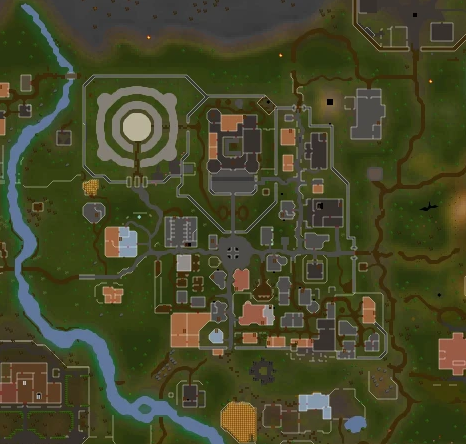
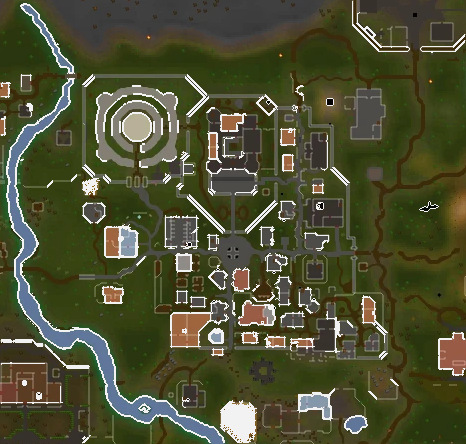
Paint white wall ink on elite structure maps so the minimap can lock.
The matcher already accepts only pale wall pixels. These dungeon maps had almost none, so a live position never stuck. The card art and the search itself are unchanged.

diff --git a/source/FollowRegressionTests.cs b/source/FollowRegressionTests.cs
@@ -89,6 +89,7 @@ namespace KavrosClueHelper
                     }
                     reader.Reset();MinimapMatch wrong=reader.Find(original,regions.Single(r=>r.Id==371),Point.Empty,CancellationToken.None);File.AppendAllText(report,"Wrong region: "+reader.Diagnostics+"\r\n");Check(wrong==null,"Prifddinas pixels cannot become a Heart of Gielinor position");
                 }
+                EliteWalls(assets,report,regions);
                 var random=new Random(5517);
                 for(int trial=0;trial<70;trial++)
                 {
@@ -103,9 +104,73 @@ namespace KavrosClueHelper
                     var watch=Stopwatch.StartNew();KnotSolution result=KnotSolver.Solve(p);File.AppendAllText(report,"Five 40-rune lanes, hidden="+hidden+": "+watch.ElapsedMilliseconds+" ms.\r\n");
                     Check(hidden?result==null:result!=null&&result.Certain&&result.Cost==0,"large ambiguous knot retains solution/ambiguity rules");Check(watch.ElapsedMilliseconds<1000,"uncertain knot does not enumerate millions of solutions");
                 }
-                File.AppendAllText(report,"V0.5.5 FOLLOW / KNOT PASS: "+checks+" assertions. Actual Kavros minimap, Home Teleport anchor, fresh cropped confirmation, resized/moved actual pixels, wrong-region rejection, exhaustive knot oracle and worst-case search checks. No windows shown, desktop capture or game input.\r\n");return 0;
+                File.AppendAllText(report,"V0.5.5 FOLLOW / KNOT PASS: "+checks+" assertions. Actual Kavros minimap, Home Teleport anchor, fresh cropped confirmation, resized/moved actual pixels, wrong-region rejection, elite structure locks, exhaustive knot oracle and worst-case search checks. No windows shown, desktop capture or game input.\r\n");return 0;
             }
             catch(Exception e){File.AppendAllText(report,e+"\r\n");return 1;}
+        }
+        private static bool PaleInk(Color c){int low=Math.Min(c.R,Math.Min(c.G,c.B)),high=Math.Max(c.R,Math.Max(c.G,c.B));return low>=185&&high-low<40;}
+        private static void EliteWalls(string assets,string report,IList<ScanRegion> regions)
+        {
+            int[] ids={349,351,352,354,355,356,357,358,359,360,361,362,365,367};
+            string realFull=null;
+            foreach(string candidate in new[]{Path.Combine(assets,"test_assets","reported","brimhaven2-full.png"),"/workspace/brimhaven2-full.png","/workspace/brimhaven-minimap.png","/workspace/brimhaven2-minimap.png"})
+                if(realFull==null&&File.Exists(candidate)&&candidate.IndexOf("full",StringComparison.Ordinal)>=0)realFull=candidate;
+            ScanRegion brimhaven=regions.Single(r=>r.Id==356);
+            if(realFull==null)File.AppendAllText(report,"Brimhaven real frames were not on this machine. Floor 0 is locked from a synthetic cut of the regenerated structure.\r\n");
+            else
+            {
+                var reader=new MinimapPositionReader(assets);
+                using(var frame=new Bitmap(realFull))
+                {
+                    var watch=Stopwatch.StartNew();MinimapMatch live=reader.Find(frame,brimhaven,Point.Empty,CancellationToken.None);
+                    File.AppendAllText(report,"Brimhaven real frame "+realFull+": "+watch.ElapsedMilliseconds+" ms; "+reader.Diagnostics+"\r\n");
+                    Check(live!=null&&live.Error<=3,"Brimhaven floor 0 locks from the real frame with error <= 3");
+                    Check(Math.Abs(live.PlayerPixel.X-2343)<=40&&Math.Abs(live.PlayerPixel.Y-213)<=40,"the real Brimhaven frame uses the player dot");
+                    Check(brimhaven.MapBounds.Contains(live.Position),"the real Brimhaven lock is on the dungeon map");
+                }
+            }
+            var structure=new MinimapStructure();
+            foreach(int id in ids)
+            {
+                ScanRegion source=regions.Single(r=>r.Id==id);
+                foreach(int level in source.Levels)
+                {
+                    var region=new ScanRegion{Id=source.Id,Level=level,Tier=source.Tier,Name=source.Name,MapBounds=source.MapBounds,BaseRange=source.BaseRange,Spots=source.Spots,SpotLevels=source.SpotLevels};
+                    string path=Path.Combine(assets,"scan",region.AssetKey+"-structure.png");
+                    Check(File.Exists(path),region.AssetKey+" structure map exists");
+                    int pale=0,filled=0,bestCount=-1;Point best=Point.Empty;int width,height;double sx,sy,worldX,worldY;
+                    using(var image=new Bitmap(path))
+                    {
+                        width=image.Width;height=image.Height;var pixels=new Pixels(image);var mask=new bool[width*height];
+                        for(int y=0;y<height;y++)for(int x=0;x<width;x++)if(PaleInk(pixels.Get(x,y))){mask[y*width+x]=true;pale++;}
+                        for(int y=1;y<height-1;y++)for(int x=1;x<width-1;x++){int i=y*width+x;if(mask[i]&&mask[i-1]&&mask[i+1]&&mask[i-width]&&mask[i+width])filled++;}
+                        int rad=Math.Min(70,Math.Min(width,height)/2-2);
+                        for(int y=rad;y<height-rad;y+=12)for(int x=rad;x<width-rad;x+=12)
+                        {
+                            int count=0;
+                            for(int iy=-rad;iy<=rad;iy+=2)for(int ix=-rad;ix<=rad;ix+=2)if(ix*ix+iy*iy<rad*rad&&mask[(y+iy)*width+x+ix])count++;
+                            if(count>bestCount){bestCount=count;best=new Point(x,y);}
+                        }
+                        Check(pale*1000>width*height*4,region.AssetKey+" has pale wall ink ("+pale+" px)");
+                        Check(filled*2<pale,region.AssetKey+" pale ink stays on edges");
+                        sx=width/region.MapBounds.Width;sy=height/region.MapBounds.Height;
+                        worldX=region.MapBounds.Left+best.X/sx;worldY=region.MapBounds.Bottom-best.Y/sy;
+                        using(var mini=new Bitmap(260,260))
+                        {
+                            for(int iy=0;iy<260;iy++)for(int ix=0;ix<260;ix++)
+                            {
+                                double wx=worldX+(ix-130)/2.0,wy=worldY-(iy-130)/2.0;
+                                int rx=(int)Math.Round((wx-region.MapBounds.Left)*sx),ry=(int)Math.Round((region.MapBounds.Bottom-wy)*sy);
+                                if(rx>=0&&ry>=0&&rx<width&&ry<height)mini.SetPixel(ix,iy,pixels.Get(rx,ry));
+                            }
+                            var watch=Stopwatch.StartNew();string info;MinimapMatch match=structure.Find(mini,assets,region,new Point(130,130),new Rectangle(0,0,260,260),null,CancellationToken.None,out info);
+                            File.AppendAllText(report,region.AssetKey+" synthetic lock "+watch.ElapsedMilliseconds+" ms; "+info+"\r\n");
+                            bool locked=match!=null&&match.Error<=3&&CompassMath.Distance(match.Position,new PointF((float)worldX,(float)worldY))<4;
+                            Check(locked,region.AssetKey+" synthetic minimap locks at "+worldX.ToString("0")+", "+worldY.ToString("0")+" ("+info+")");
+                        }
+                    }
+                }
+            }
         }
     }
 }

diff --git a/source/MapIconRegressionTests.cs b/source/MapIconRegressionTests.cs
@@ -41,7 +41,7 @@ namespace KavrosClueHelper
                 Check(Math.Abs(PuzzleDetector.SearchOrder(1351, 192)[0] - 2.5F) < 0.02F, "1440p at 200% searches 2.5 first");
                 Check(Math.Abs(PuzzleDetector.SearchOrder(1369, 96, 1080, 100, 1440, 125)[0] - 1F) < 0.02F, "a manual 1080p choice overrides the window height");
                 Check(Math.Abs(PuzzleDetector.SearchOrder(0, 0, 0, 0, 1440, 125)[0] - 1.75F) < 0.02F, "auto with no window uses the last manual 1440p and 125%");
-                Check(AppBranding.Shown("0.8.0") == "v0.8" && AppBranding.Shown("v0.8.0") == "v0.8" && AppBranding.Shown(new Version(0, 8, 0, 0)) == "v0.8" && AppBranding.Shown("0.8.1") == "v0.8.1" && AppBranding.Shown("v0.8.1") == "v0.8.1" && AppBranding.Shown(new Version(0, 8, 1, 0)) == "v0.8.1" && AppBranding.Shown("0.9.0") == "v0.9" && AppBranding.Shown(new Version(0, 9, 0, 0)) == "v0.9" && AppBranding.Shown("0.9.1") == "v0.9.1" && AppBranding.Shown(new Version(0, 9, 1, 0)) == "v0.9.1" && AppBranding.Shown("0.9.2") == "v0.9.2" && AppBranding.Shown(new Version(0, 9, 2, 0)) == "v0.9.2" && AppBranding.Shown("0.9.3") == "v0.9.3" && AppBranding.Shown(new Version(0, 9, 3, 0)) == "v0.9.3" && AppBranding.Shown("0.9.4") == "v0.9.4" && AppBranding.Shown(new Version(0, 9, 4, 0)) == "v0.9.4", "a zero patch shows major.minor and any other patch shows three parts");
+                Check(AppBranding.Shown("0.8.0") == "v0.8" && AppBranding.Shown("v0.8.0") == "v0.8" && AppBranding.Shown(new Version(0, 8, 0, 0)) == "v0.8" && AppBranding.Shown("0.8.1") == "v0.8.1" && AppBranding.Shown("v0.8.1") == "v0.8.1" && AppBranding.Shown(new Version(0, 8, 1, 0)) == "v0.8.1" && AppBranding.Shown("0.9.0") == "v0.9" && AppBranding.Shown(new Version(0, 9, 0, 0)) == "v0.9" && AppBranding.Shown("0.9.1") == "v0.9.1" && AppBranding.Shown(new Version(0, 9, 1, 0)) == "v0.9.1" && AppBranding.Shown("0.9.2") == "v0.9.2" && AppBranding.Shown(new Version(0, 9, 2, 0)) == "v0.9.2" && AppBranding.Shown("0.9.3") == "v0.9.3" && AppBranding.Shown(new Version(0, 9, 3, 0)) == "v0.9.3" && AppBranding.Shown("0.9.4") == "v0.9.4" && AppBranding.Shown(new Version(0, 9, 4, 0)) == "v0.9.4" && AppBranding.Shown("0.9.5") == "v0.9.5" && AppBranding.Shown(new Version(0, 9, 5, 0)) == "v0.9.5", "a zero patch shows major.minor and any other patch shows three parts");
                 string prefsPath = Path.Combine(Path.GetTempPath(), "kavros-overlay-" + DateTime.UtcNow.Ticks.ToString() + ".txt");
                 try
                 {

diff --git a/source/SteadyTrackingTests.cs b/source/SteadyTrackingTests.cs
@@ -120,6 +120,9 @@ namespace KavrosClueHelper
                     check(!outside.Outside&&outside.PositionTracked&&CompassMath.Distance(outside.Position.Value,locked)<1,"coming into range on "+sample.Name+" keeps the same lock");
                     check(outside.FloorLine().IndexOf(ScanSession.OutsideNote,StringComparison.Ordinal)<0,"the too-far note goes away once "+sample.Name+" is in range");
                     check(sample.Levels.Length>=1&&sample.Level==0,"the scan floor is unchanged by tracking");
+                    check(outside.AutoTracking&&outside.FloorLine().IndexOf("Right-click your position on the map",StringComparison.Ordinal)<0,"the right-click line stays hidden while "+sample.Name+" follows the minimap");
+                    outside.SetAutomatic(false);
+                    check(!outside.AutoTracking&&outside.FloorLine().Contains("Right-click your position on the map"),"the right-click line appears only when "+sample.Name+" auto-follow is off");
                 }
                 File.WriteAllText(report,log.ToString()+"Steady tracking checks passed: "+count+Environment.NewLine);
                 return 0;

diff --git a/verification/SettingsChecks.cs b/verification/SettingsChecks.cs
@@ -29,7 +29,7 @@ public sealed class SettingsChecks : MarshalByRefObject
         {
             var footer=form.Controls.Find("BuildCredit",true).OfType<Label>().Single();
             var crest=form.Controls.Find("KavrosCrest",true).OfType<PictureBox>().Single();
-            if(footer.Text!="Made by Zenity  ·  v0.9.4"||form.Text!="Kavros Clue Helper · v0.9.4"||crest.Image==null||form.Icon==null)throw new Exception("Missing branding or incorrect version: "+footer.Text+" / "+form.Text);
+            if(footer.Text!="Made by Zenity  ·  v0.9.5"||form.Text!="Kavros Clue Helper · v0.9.5"||crest.Image==null||form.Icon==null)throw new Exception("Missing branding or incorrect version: "+footer.Text+" / "+form.Text);
             if(form.Controls.Find("ModernInterface",true).Length!=1||form.Controls.Find("LegacyInterface",true).Length!=1)throw new Exception("Interface toggles are missing.");
             const BindingFlags flags=BindingFlags.Instance|BindingFlags.NonPublic;
             var option=(CheckBox)typeof(PuzzleSuiteForm).GetField("reverse",flags).GetValue(form);

diff --git a/README.md b/README.md
@@ -1,14 +1,14 @@
 # kavros-clue-helper
 
-Clue scroll helper overlay for Kavros. Version 0.9.4 is a Windows .NET Framework 4.8 application. The full guide is in [README.txt](README.txt).
+Clue scroll helper overlay for Kavros. Version 0.9.5 is a Windows .NET Framework 4.8 application. The full guide is in [README.txt](README.txt).
 
-v0.9.4: a scan that says you are too far away still tracks the minimap. See [CHANGELOG.md](CHANGELOG.md).
+v0.9.5: elite dungeon scans lock your position on the minimap. See [CHANGELOG.md](CHANGELOG.md).
 
 The helper reads the game window locally and does not send game input. Maps and clue references are bundled offline. The only runtime network request is to GitHub, for update checks and update downloads, and only when **Check for updates at startup** is enabled or you press **Check for updates** in Settings.
 
 ## Releases
 
-Push a tag that matches the first three parts of the version in `source/app.manifest`. The current release tag is `v0.9.4`. The app shows v0.9.4. A zero patch still shows as v0.9. The Windows workflow builds with `source/build.ps1`, packs the executable and the `assets` folder with Velopack, and publishes these files to GitHub Releases:
+Push a tag that matches the first three parts of the version in `source/app.manifest`. The current release tag is `v0.9.5`. The app shows v0.9.5. A zero patch still shows as v0.9. The Windows workflow builds with `source/build.ps1`, packs the executable and the `assets` folder with Velopack, and publishes these files to GitHub Releases:
 
 - `KavrosClueHelper-win-Setup.exe`
 - `KavrosClueHelper-win-Portable.zip`

diff --git a/PATCH-NOTES.md b/PATCH-NOTES.md
@@ -1,3 +1,9 @@
+# Kavros Clue Helper v0.9.5
+
+Elite dungeon scans lock your position on the minimap. The wall lines on those maps are white, the same way Prifddinas already was. The pictures on the clue card are unchanged. The right-click line stays hidden while auto-follow is on.
+
+Settings shows **Made by Zenity  ·  v0.9.5**. The full notes are in CHANGELOG.md.
+
 # Kavros Clue Helper v0.9.4
 
 A scan that says you are too far away still tracks your minimap. The card keeps the steps, the too-far note, and the position once it is found. Coming into range keeps that lock.

diff --git a/CHANGELOG.md b/CHANGELOG.md
@@ -1,5 +1,11 @@
 # Kavros Clue Helper
 
+## 0.9.5
+
+**Scan clues**
+- Elite dungeon scans lock your position on the minimap. Those maps now have white wall lines, the same way Prifddinas already did.
+- The pictures on the clue card are unchanged. The right-click line stays hidden while auto-follow is on.
+
 ## 0.9.4
 
 **Scan clues**
